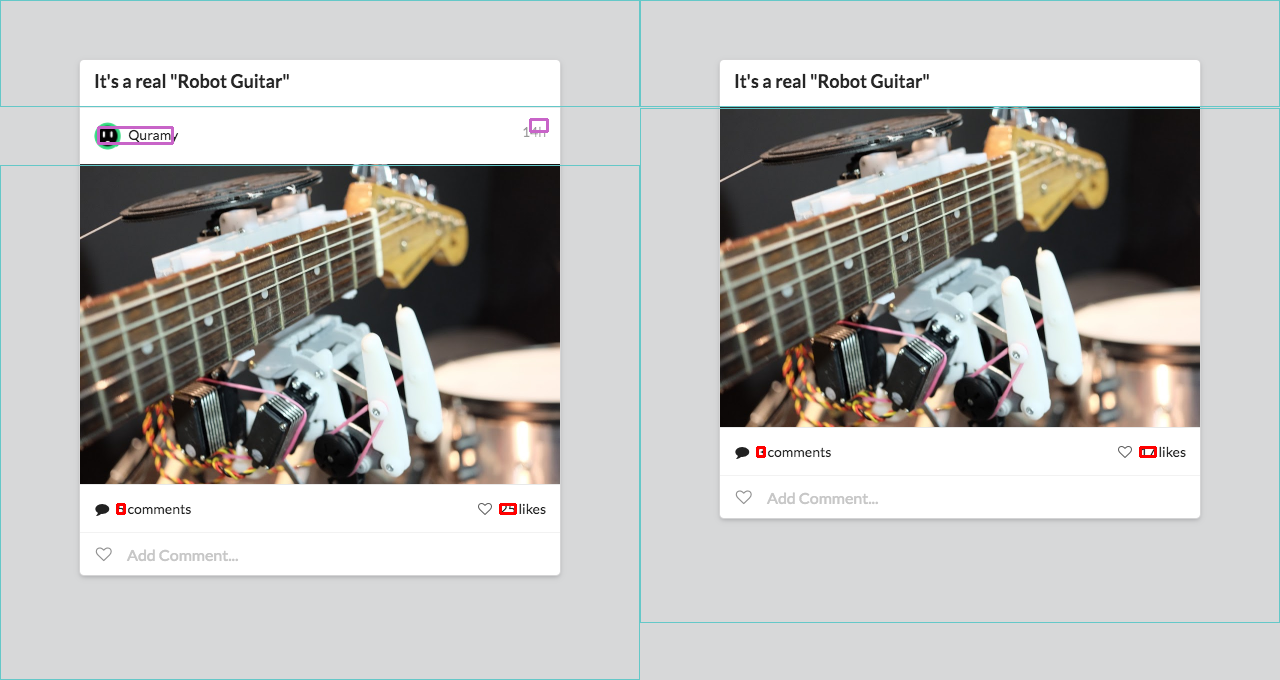
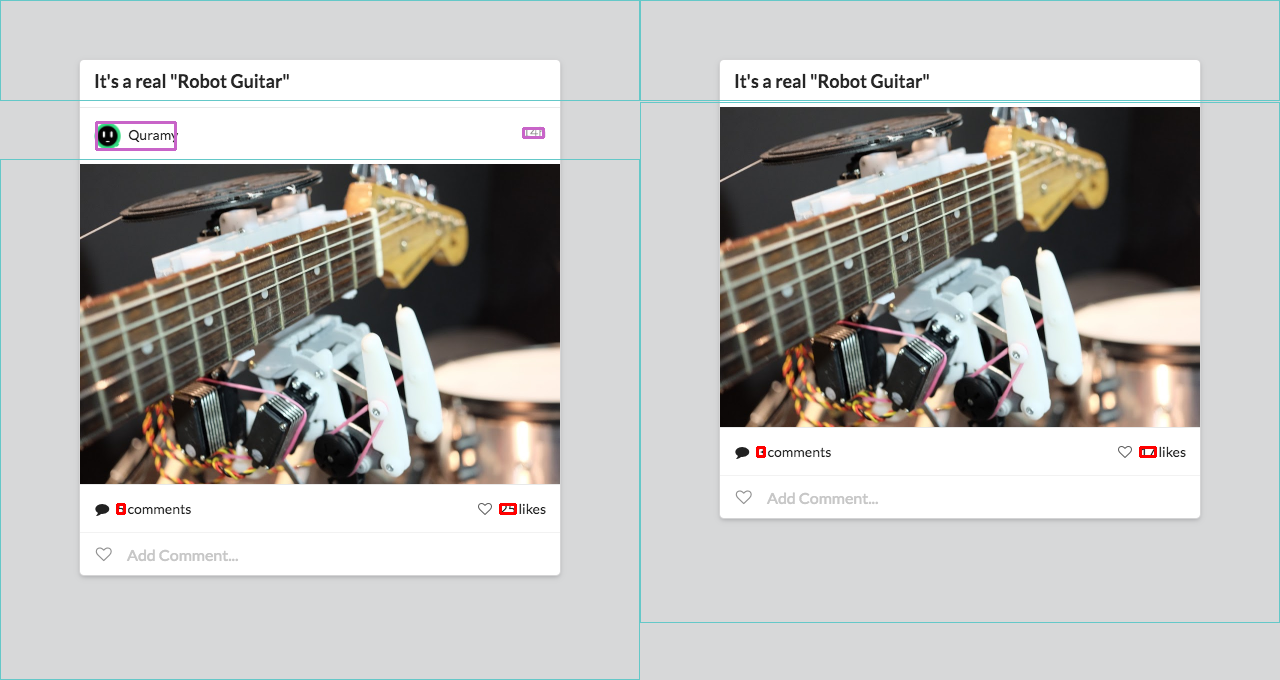
modify straying rects detection

Changed region(s): [[0.0625, 0.1544, 0.1562, 0.2471], [0.4062, 0.1544, 0.4375, 0.2162]]

diff --git a/src/hunter.cpp b/src/hunter.cpp
@@ -446,13 +446,13 @@ namespace ph {
 
   void detectDiff(const Mat& img1, const Mat& img2, DiffResult& out, const DiffConfig& config) {
     Mat imgIn1, imgIn2;
-    if (config.useCanny) {
-      Canny(img1, imgIn1, 0, 0);
-      Canny(img2, imgIn2, 0, 0);
-    } else {
-      imgIn1 = img1;
-      imgIn2 = img2;
-    }
+    // if (config.useCanny) {
+    Canny(img1, imgIn1, 0, 10);
+    Canny(img2, imgIn2, 0, 10);
+    // } else {
+    //   imgIn1 = img1;
+    //   imgIn2 = img2;
+    // }
 
     auto f2d = AKAZE::create();
     vector<KeyPoint> kp1, kp2;
@@ -565,59 +565,91 @@ namespace ph {
     int countOfExpandRects = pixelMatch(img1, matchedRects1, img2, matchedRects2, cv, matchingResults, urects1, urects2, config);
     vector<Point2i> cvo;
     mergeResultIfSameCenter(matchingResults, cv, cvo);
+    
+    for(auto& m: matchingResults) {
+      rectangle(imgIn1, m.bounding1, Scalar(0), CV_FILLED);
+      rectangle(imgIn2, m.bounding2, Scalar(0), CV_FILLED);
+    }
+    vector<Rect> strSeeds1, fss1;
+    rectu::nonzeroRects(imgIn1, config.gridSize / 2, config.gridSize / 2, strSeeds1);
+    for(auto& r: strSeeds1) {
+      if (r.width <= 3 || r.height <= 3) continue;
+      bool x = true;
+      Rect c;
+      for (auto& mr: matchingResults) {
+        x = x && !rectu::intersect(mr.bounding1, r, c, 2);
+      }
+      if (x) fss1.push_back(r);
+    }
+    rectu::mergeRects(fss1, fss1, config.gridSize);
 
-    int rk = (cv.size() - countOfExpandRects) * 6 + 10;
-    if (config.debug) {
-      cout << "Initial cluster size[Strayng points]: " << rk << endl;
-    }
-    vector<Rect> strayingRects1, strayingRects2;
-    auto strayngPoints1 = vector<KeyPoint>();
-    for (auto& kp: notCategorizedKp1) {
-      if (!rectu::inBox(kp.pt, urects1)) {
-        strayngPoints1.push_back(kp);
-      }
-    }
-    auto strayngPoints2 = vector<KeyPoint>();
-    for (auto& kp: notCategorizedKp2) {
-      if (!rectu::inBox(kp.pt, urects2)) {
-        strayngPoints2.push_back(kp);
-      }
-    }
-    vector<vector<KeyPoint>> ckp1, ckp2;
-    if (clusterKeyPoints(strayngPoints1, ckp1, rk)) {
-      rectu::createRectsFromKeypoints(ckp1, strayingRects1, true);
-      auto st = vector<Rect>();
+    vector<Rect> strSeeds2, fss2;
+    rectu::nonzeroRects(imgIn2, config.gridSize / 2, config.gridSize / 2, strSeeds2);
+    for(auto& r: strSeeds2) {
+      if (r.width <= 3 || r.height <= 3) continue;
+      bool x = true;
       Rect c;
-      for (auto& r: strayingRects1) {
-        bool x = true;
-        for (auto& mr: matchingResults) {
-          x = x && !rectu::intersect(mr.bounding1, r, c, 2);
-        }
-        if (x) {
-          st.push_back(r);
-        }
+      for (auto& mr: matchingResults) {
+        x = x && !rectu::intersect(mr.bounding2, r, c, 2);
       }
-      rectu::mergeRects(st, strayingRects1, 8);
-    } else {
-      strayingRects1 = vector<Rect>();
+      if (x) fss2.push_back(r);
     }
-    if (clusterKeyPoints(strayngPoints2, ckp2, rk)) {
-      rectu::createRectsFromKeypoints(ckp2, strayingRects2, true);
-      auto st = vector<Rect>();
-      Rect c;
-      for (auto& r: strayingRects2) {
-        bool x = true;
-        for (auto& mr: matchingResults) {
-          x = x && !rectu::intersect(mr.bounding2, r, c, 2);
-        }
-        if (x) {
-          st.push_back(r);
-        }
-      }
-      rectu::mergeRects(st, strayingRects2, 8);
-    } else {
-      strayingRects2 = vector<Rect>();
-    }
+    rectu::mergeRects(fss2, fss2, config.gridSize);
+
+    // int rk = (cv.size() - countOfExpandRects) * 6 + 10;
+    // if (config.debug) {
+    //   cout << "Initial cluster size[Strayng points]: " << rk << endl;
+    // }
+    // vector<Rect> strayingRects1, strayingRects2;
+    auto strayingRects1 = fss1;
+    // auto strayngPoints1 = vector<KeyPoint>();
+    // for (auto& kp: notCategorizedKp1) {
+    //   if (!rectu::inBox(kp.pt, urects1)) {
+    //     strayngPoints1.push_back(kp);
+    //   }
+    // }
+    auto strayingRects2 = fss2;
+    // auto strayngPoints2 = vector<KeyPoint>();
+    // for (auto& kp: notCategorizedKp2) {
+    //   if (!rectu::inBox(kp.pt, urects2)) {
+    //     strayngPoints2.push_back(kp);
+    //   }
+    // }
+    // vector<vector<KeyPoint>> ckp1, ckp2;
+    // if (clusterKeyPoints(strayngPoints1, ckp1, rk)) {
+    //   rectu::createRectsFromKeypoints(ckp1, strayingRects1, true);
+    //   auto st = vector<Rect>();
+    //   Rect c;
+    //   for (auto& r: strayingRects1) {
+    //     bool x = true;
+    //     for (auto& mr: matchingResults) {
+    //       x = x && !rectu::intersect(mr.bounding1, r, c, 2);
+    //     }
+    //     if (x) {
+    //       st.push_back(r);
+    //     }
+    //   }
+    //   rectu::mergeRects(st, strayingRects1, 8);
+    // } else {
+    //   strayingRects1 = vector<Rect>();
+    // }
+    // if (clusterKeyPoints(strayngPoints2, ckp2, rk)) {
+    //   rectu::createRectsFromKeypoints(ckp2, strayingRects2, true);
+    //   auto st = vector<Rect>();
+    //   Rect c;
+    //   for (auto& r: strayingRects2) {
+    //     bool x = true;
+    //     for (auto& mr: matchingResults) {
+    //       x = x && !rectu::intersect(mr.bounding2, r, c, 2);
+    //     }
+    //     if (x) {
+    //       st.push_back(r);
+    //     }
+    //   }
+    //   rectu::mergeRects(st, strayingRects2, 8);
+    // } else {
+    //   strayingRects2 = vector<Rect>();
+    // }
 
     DiffResult result(matchingResults, strayingRects1, strayingRects2);
 

diff --git a/src/hunter.hpp b/src/hunter.hpp
@@ -9,7 +9,7 @@ namespace ph {
   struct DiffConfig {
     bool debug = false;
     int thresholdTransX = 400;
-    int maxMatchingPoints = 400;
+    int maxMatchingPoints = 800;
     bool useCanny = true;
     int shiftDelta = 2;
     int connectionDistance = 60;
